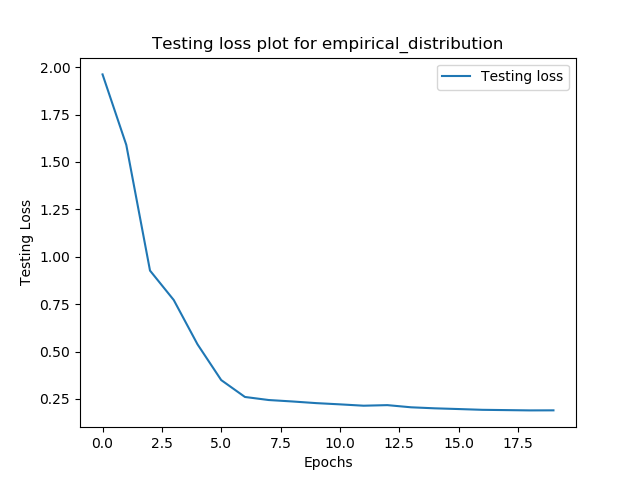
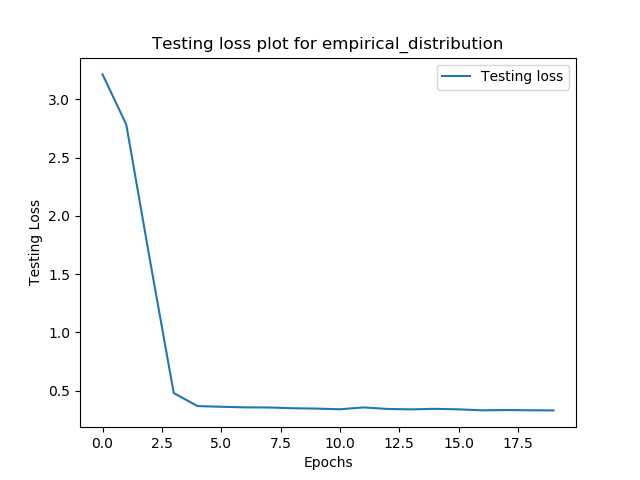
merging graphdata but not yet perfectly working now

diff --git a/pathProbabilities.py b/pathProbabilities.py
@@ -128,7 +128,6 @@ def learnEdgeProbs_simple(train_data, test_data, lr=0.1, learning_model='random_
             ################################### Compute edge probabilities
             A=nx.to_numpy_matrix(G)
             A_torch = torch.as_tensor(A, dtype=torch.float) 
-            source, target = G.graph['source'], G.graph['target']
     
             Fv_torch=torch.as_tensor(Fv, dtype=torch.float)
             edge_index = torch.Tensor(list(nx.DiGraph(G).edges())).long().t()
@@ -200,10 +199,10 @@ def getDefUtility(single_data, unbiased_probs_pred, path_model, omega=4, verbose
     h_matrix = torch.cat((torch.zeros(m), torch.ones(m), torch.Tensor([budget])))
 
     # ========================== QP part ===========================
-    while True:
-        # initial_coverage_prob = np.random.rand(nx.number_of_edges(G))
-        # initial_coverage_prob = initial_coverage_prob / np.sum(initial_coverage_prob) * budget
-        initial_coverage_prob = np.zeros(nx.number_of_edges(G))
+    for tmp_iter in range(10): # maximum 10 retries
+        initial_coverage_prob = np.random.rand(nx.number_of_edges(G))
+        initial_coverage_prob = initial_coverage_prob / np.sum(initial_coverage_prob) * budget
+        # initial_coverage_prob = np.zeros(nx.number_of_edges(G))
 
         pred_optimal_res = get_optimal_coverage_prob(G, unbiased_probs_pred.detach(), U, initial_distribution, budget, omega=omega, options=options, initial_coverage_prob=initial_coverage_prob)
         pred_optimal_coverage = torch.Tensor(pred_optimal_res['x'])
@@ -269,8 +268,7 @@ def testModel(dataset, net2, learning_model, omega=4, defender_utility_computati
     for iter_n, single_data in enumerate(dataset):
         G, Fv, coverage_prob, phi_true, unbiased_probs_true, path_list, log_prob = single_data
         
-        source, target, budget = G.graph['source'], G.graph['target'], G.graph['budget'] 
-        U, initial_distribution = G.graph['U'], G.graph['initial_distribution']
+        U, initial_distribution, budget = G.graph['U'], G.graph['initial_distribution'], G.graph['budget']
         
         Fv_torch=torch.as_tensor(Fv, dtype=torch.float)
         edge_index = torch.Tensor(list(nx.DiGraph(G).edges())).long().t()
@@ -322,7 +320,7 @@ if __name__=='__main__':
     plot_everything=True
     learning_mode = 1
     learning_model_type = 'random_walk_distribution' if learning_mode == 0 else 'empirical_distribution'
-    training_mode = 1
+    training_mode = 0
     training_method = 'two-stage' if training_mode == 0 else 'decision-focused' # 'two-stage' or 'decision-focused'
     feature_size=5
     OMEGA=0
@@ -332,8 +330,8 @@ if __name__=='__main__':
     GRAPH_E_PROB_LOW=0.2
     GRAPH_E_PROB_HIGH=0.3
     
-    NUMBER_OF_GRAPHS=1
-    SAMPLES_PER_GRAPH=100
+    NUMBER_OF_GRAPHS=10
+    SAMPLES_PER_GRAPH=10
     EMPIRICAL_SAMPLES_PER_INSTANCE=100
     
     N_EPOCHS=20
@@ -343,12 +341,12 @@ if __name__=='__main__':
     DEFENDER_BUDGET=0.05 # This means the budget (sum of coverage prob) is <= DEFENDER_BUDGET*Number_of_edges 
 
     ###############################
-    filepath = "figures/0619_{}".format(training_method)
+    filepath = "figures/0620_{}".format(training_method)
       
     ############################### Data genaration:
     train_data, test_data=generateSyntheticData(feature_size, path_type=learning_model_type, 
                         n_graphs=NUMBER_OF_GRAPHS, samples_per_graph=SAMPLES_PER_GRAPH, empirical_samples_per_instance=EMPIRICAL_SAMPLES_PER_INSTANCE,
-                        fixed_graph=True, omega=OMEGA,
+                        fixed_graph=False, omega=OMEGA,
                         N_low=GRAPH_N_LOW, N_high=GRAPH_N_HIGH, e_low=GRAPH_E_PROB_LOW, e_high=GRAPH_E_PROB_HIGH,
                         budget=DEFENDER_BUDGET)
     

diff --git a/coverageProbability.py b/coverageProbability.py
@@ -13,6 +13,8 @@ from graphData import *
 import torch
 import autograd
 
+REG = 0.00
+
 def phi2prob(G, phi): # unbiased but no need to be normalized. It will be normalized later
     N=nx.number_of_nodes(G)
     adj = torch.Tensor(nx.adjacency_matrix(G).toarray())
@@ -64,7 +66,7 @@ def get_optimal_coverage_prob(G, unbiased_probs, U, initial_distribution, budget
 
 def objective_function_matrix_form(coverage_probs, G, unbiased_probs, U, initial_distribution, omega=4, lib=torch):
     n = len(G.nodes)
-    targets = G.graph["targets"] + [n] # adding the caught node
+    targets = list(G.graph["targets"]) + [n] # adding the caught node
     transient_vector = torch.Tensor([0 if v in targets else 1 for v in range(n+1)]).type(torch.uint8)
 
     # COVERAGE PROBABILITY MATRIX
@@ -83,7 +85,7 @@ def objective_function_matrix_form(coverage_probs, G, unbiased_probs, U, initial
     full_prob = torch.cat((state_prob, caught_prob), dim=1)
     Q = full_prob[transient_vector[:-1]][:,transient_vector]
     R = full_prob[transient_vector[:-1]][:,1 - transient_vector]
-    N = (torch.eye(Q.shape[0]) - Q).inverse()
+    N = ((1 + REG) * torch.eye(Q.shape[0]) - Q).inverse()
     B = N @ R
     obj = torch.Tensor(initial_distribution) @ B @ torch.Tensor(U)
 
@@ -94,7 +96,7 @@ def objective_function_matrix_form(coverage_probs, G, unbiased_probs, U, initial
 
 def dobj_dx_matrix_form(coverage_probs, G, unbiased_probs, U, initial_distribution, omega=4, lib=torch):
     n = len(G.nodes)
-    targets = G.graph["targets"] + [n] # adding the caught node
+    targets = list(G.graph["targets"]) + [n] # adding the caught node
     transient_vector = torch.Tensor([0 if v in targets else 1 for v in range(n+1)]).type(torch.uint8)
 
     # COVERAGE PROBABILITY MATRIX
@@ -114,7 +116,7 @@ def dobj_dx_matrix_form(coverage_probs, G, unbiased_probs, U, initial_distributi
     full_prob = torch.cat((state_prob, caught_prob), dim=1)
     Q = full_prob[transient_vector[:-1]][:,transient_vector]
     R = full_prob[transient_vector[:-1]][:,1 - transient_vector]
-    N = (torch.eye(Q.shape[0]) - Q).inverse()
+    N = ((1 + REG) * torch.eye(Q.shape[0]) - Q).inverse()
     B = N @ R
 
     dP_dx = torch.zeros((n,n,len(coverage_probs)))
@@ -162,7 +164,7 @@ def dobj_dx_matrix_form(coverage_probs, G, unbiased_probs, U, initial_distributi
 
 def dobj_dx_matrix_form_np(coverage_probs, G, unbiased_probs, U, initial_distribution, omega=4):
     n = len(G.nodes)
-    targets = G.graph["targets"] + [n] # adding the caught node
+    targets = list(G.graph["targets"]) + [n] # adding the caught node
     transient_vector = np.array([0 if v in targets else 1 for v in range(n+1)])
 
     # COVERAGE PROBABILITY MATRIX

diff --git a/graphData.py b/graphData.py
@@ -190,8 +190,6 @@ def returnGraph(fixed_graph=False, n_sources=1, n_targets=1, N_low=16, N_high=20
             G.node[target]['utility']=np.random.randint(20, high=50)
             G.graph['U'].append(G.node[target]['utility'])
         G.graph['U'].append(np.random.randint(-40, high=-30))
-        #G.graph['U'].append(0) # indifferent of getting caught
-        # G.graph['U'].append(np.random.randint(-80, high=-60)) # negative payoff
         G.graph['U']=np.array(G.graph['U'])
         
         sources=G.graph['sources']
@@ -262,11 +260,11 @@ def generate_EdgeProbs_from_Attractiveness(G, coverage_probs, phi, omega=4):
 def generateSyntheticData(node_feature_size, omega=4, 
                           n_graphs=20, samples_per_graph=100, empirical_samples_per_instance=10,
                           fixed_graph=False, path_type='random_walk',
-                          N_low=16, N_high=20, e_low=0.6, e_high=0.7, budget=0.05, train_test_split_ratio=0.8):
+                          N_low=16, N_high=20, e_low=0.6, e_high=0.7, budget=0.05, train_test_split_ratio=0.8,
+                          n_sources=1, n_targets=1):
     
     data=[] # aggregate all the data first then split into training and testing
-    #net3= featureGenerationNet2(node_feature_size)
-    net3= featureGenerationNet(node_feature_size)        
+    net3= featureGenerationNet2(node_feature_size)
     n_samples = n_graphs * samples_per_graph
     
     print("N_samples: ", n_samples)
@@ -282,7 +280,7 @@ def generateSyntheticData(node_feature_size, omega=4,
             G=testing_graphs[sample_number%n_testing_graphs]
             graph_index=sample_number%n_testing_graphs
         '''
-        G=returnGraph(fixed_graph=fixed_graph,N_low=N_low, N_high=N_high, e_low=e_low, e_high=e_high, budget=budget)
+        G=returnGraph(fixed_graph=fixed_graph, n_sources=n_sources, n_targets=n_targets, N_low=N_low, N_high=N_high, e_low=e_low, e_high=e_high, budget=budget)
         # COMPUTE ADJACENCY MATRIX
         A=nx.to_numpy_matrix(G)
         A_torch=torch.as_tensor(A, dtype=torch.float) 
@@ -327,9 +325,6 @@ def generateSyntheticData(node_feature_size, omega=4,
             # Generate features from phi values
             Fv_torch=net3.forward(phi.view(-1,1), edge_index)
             Fv=Fv_torch.detach().numpy()
-            
-            # Source and target
-            source, target = G.graph['source'], G.graph['target']
             
             # EXACT EDGE PROBS
             biased_probs = generate_EdgeProbs_from_Attractiveness(G, private_coverage_prob, phi)
